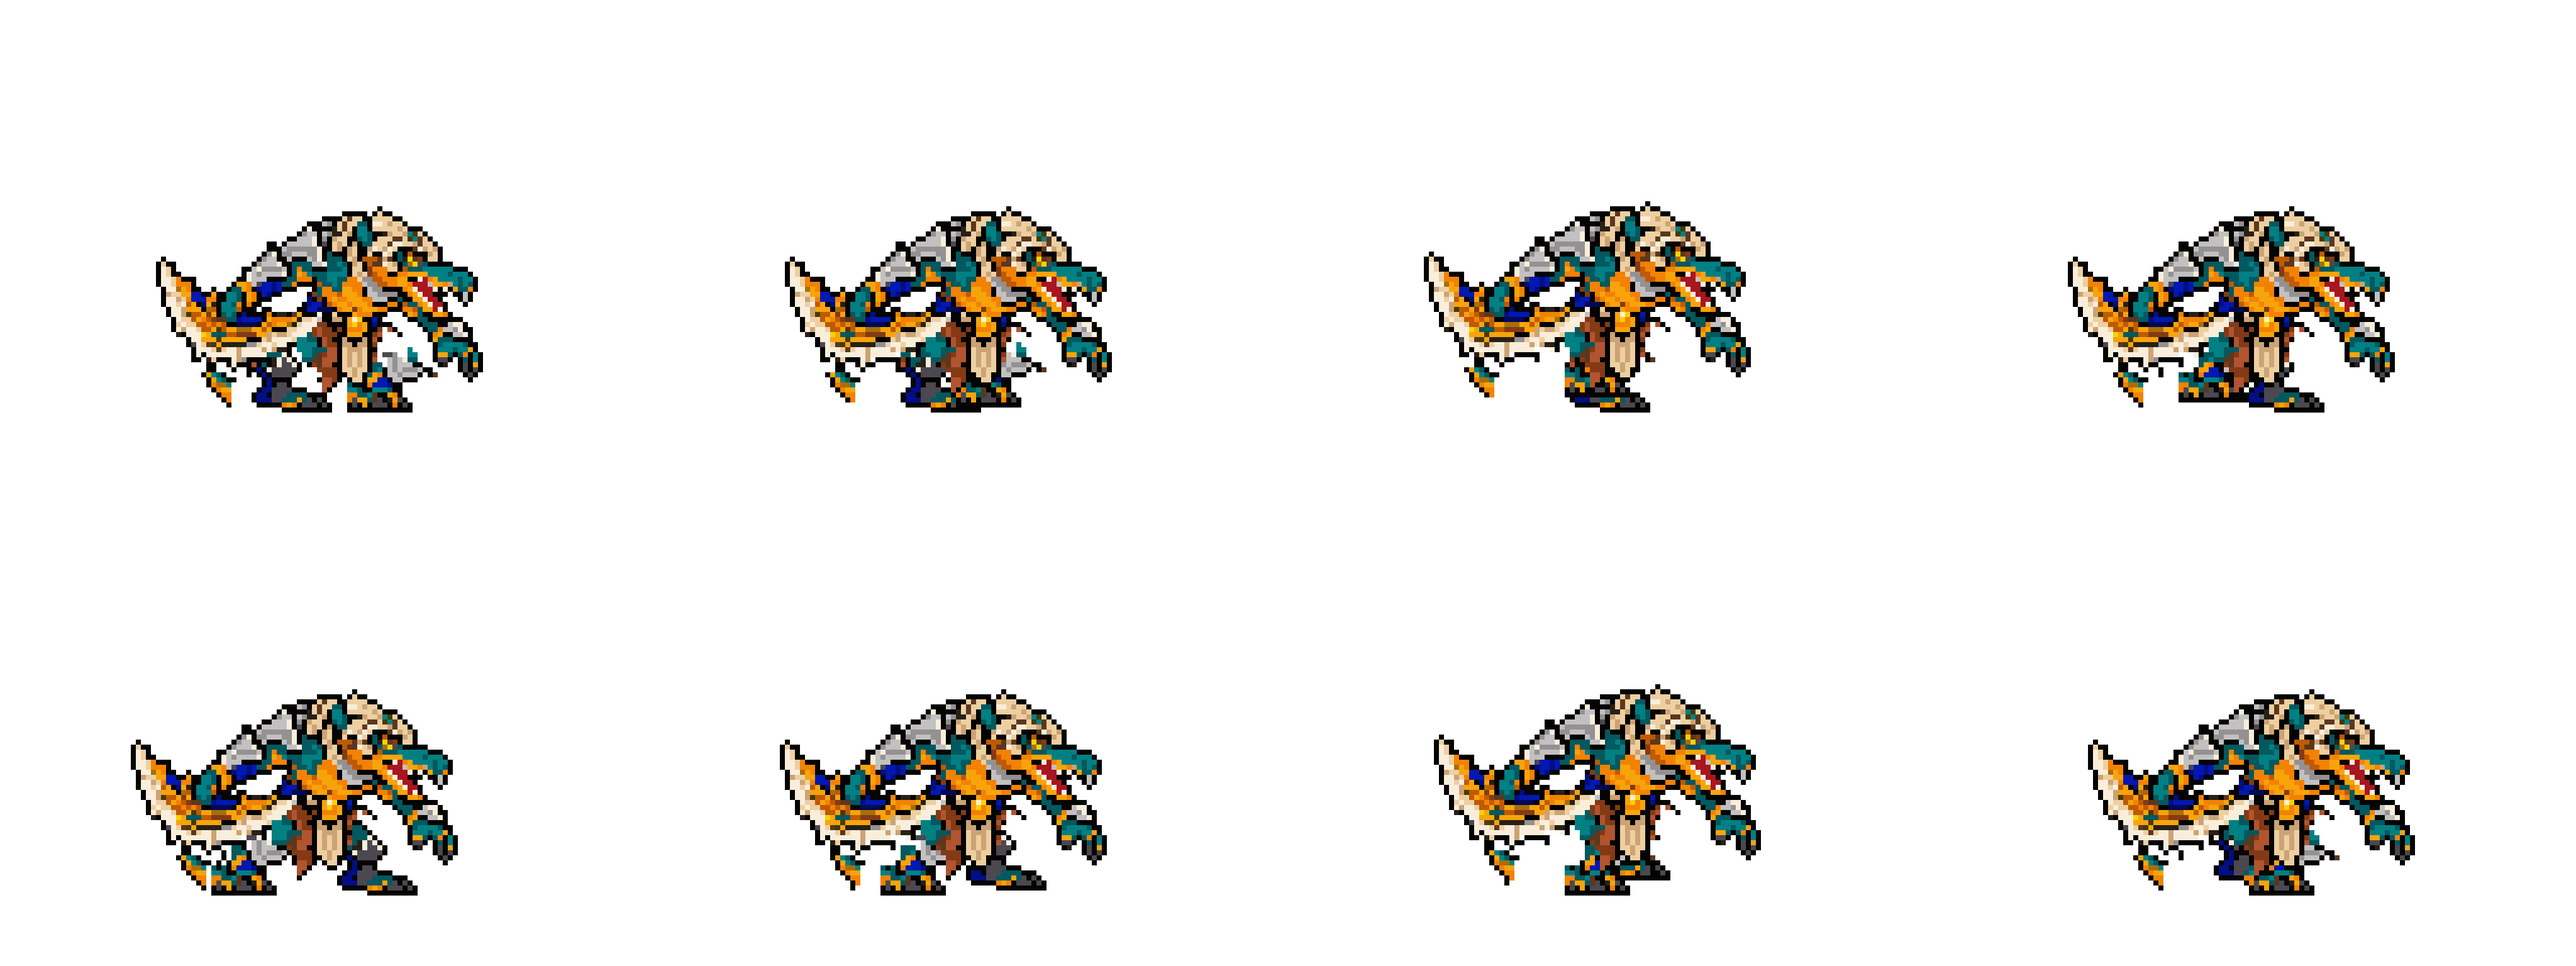
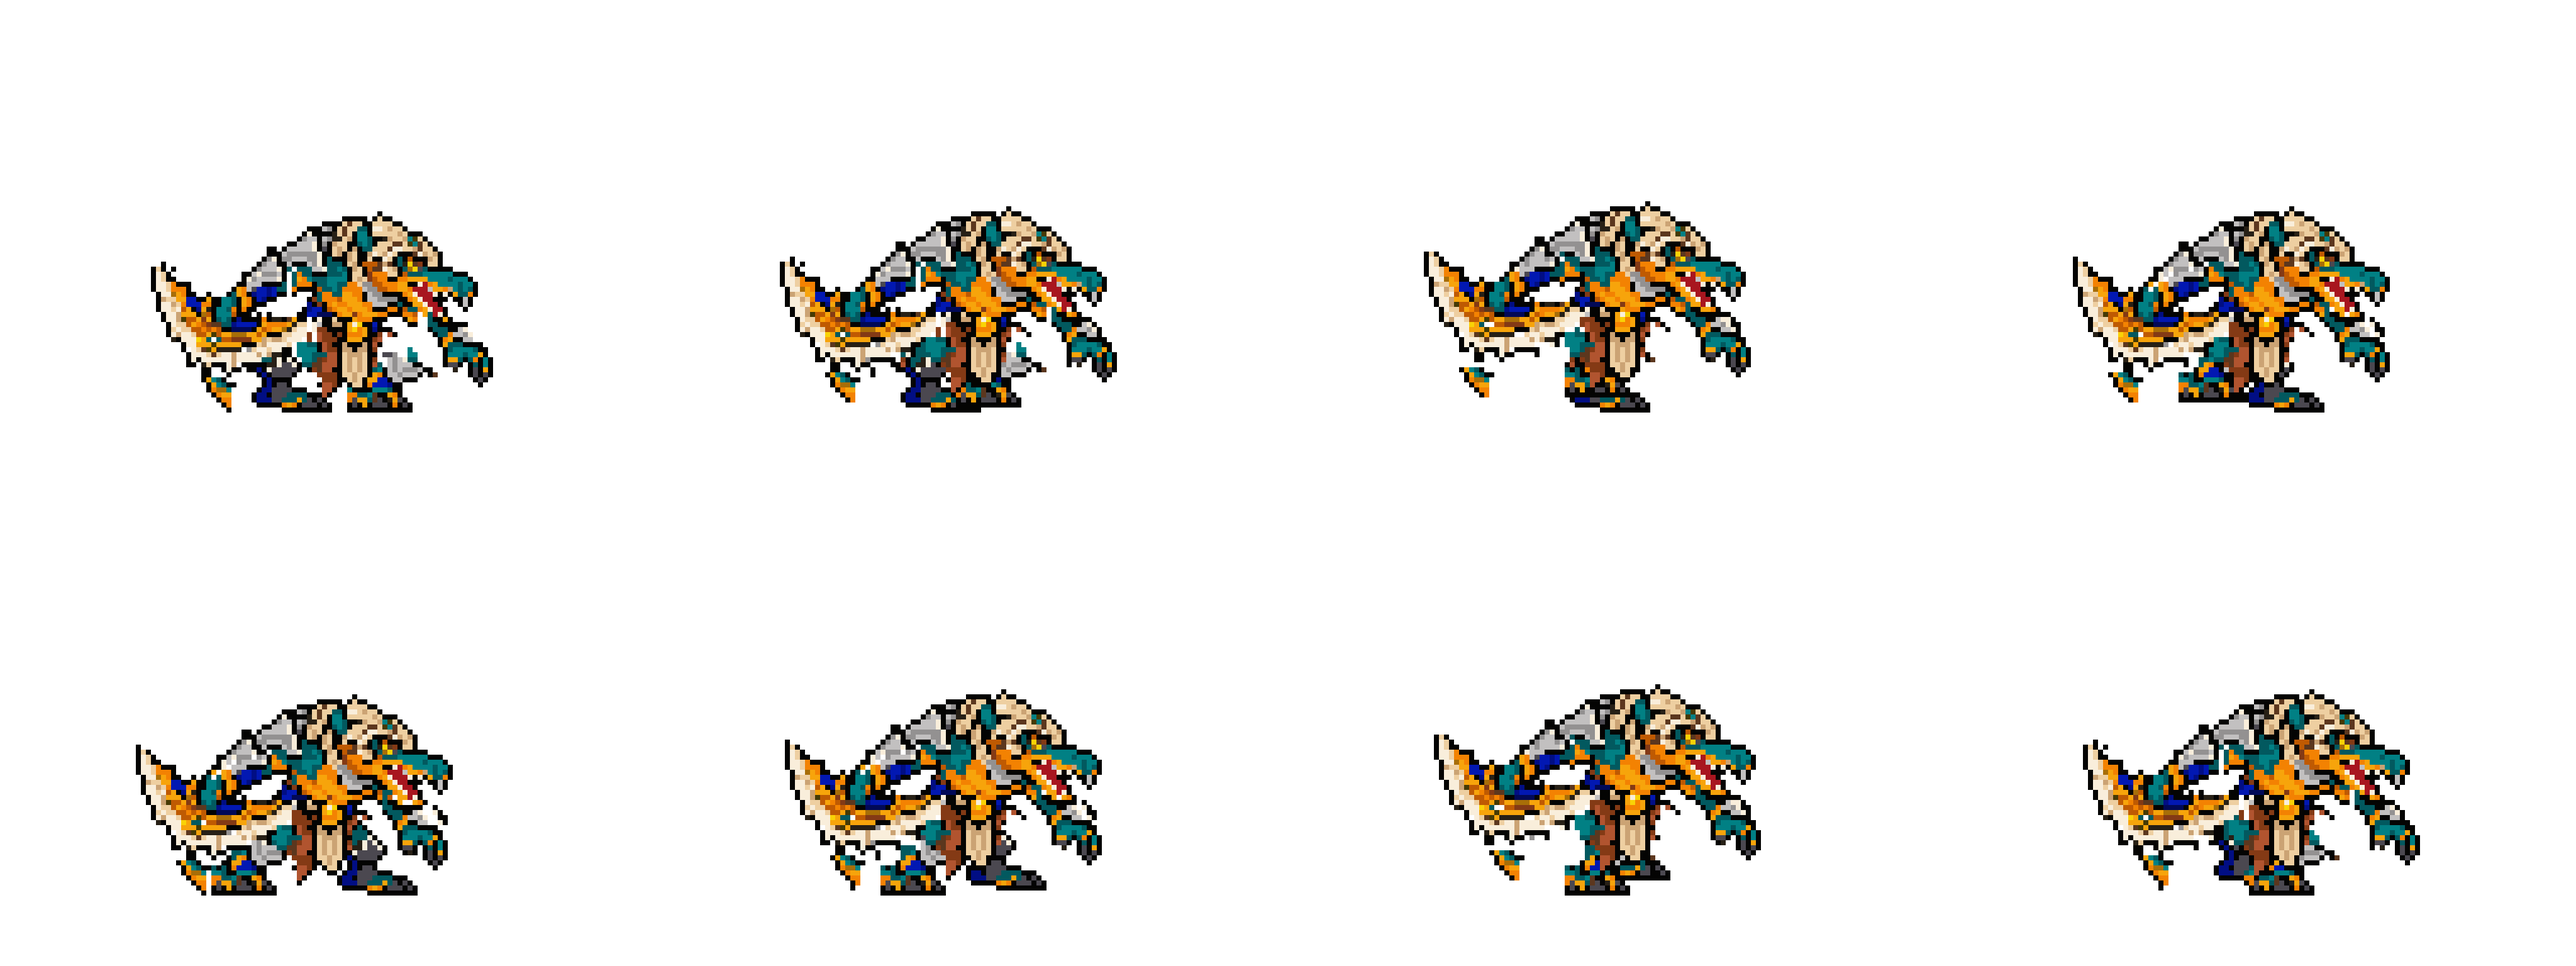
Renekton run less stiff (「鳄鱼走路有点僵硬啊」): recomposed from the rig parts, Codex's leg moves kept; the upper body sinks a row on each landing, the arms swing against the legs, the tail sways

diff --git a/tools/art/fix_renekton_strips.py b/tools/art/fix_renekton_strips.py
@@ -16,6 +16,12 @@ blade, far arm, both legs, tail; whole-part moves and nearest-neighbour turns). 
      turned the tail with the body, so it stuck straight down under the back leg. Its squares (the rig's own tail
      part, placed as the rig places the frame) are taken out and turned TAIL_TURN degrees about its root (the tail
      square nearest the back leg) to lie along the ground beside the feet, drawn behind the body.
+  3. 「鳄鱼走路有点僵硬啊」: Codex's run moved only the two legs (whole pieces crossing over) and lifted the whole
+     frame a row on two of the eight; the body, both arms, the blade and the tail stood still. The run is recomposed
+     from the same rig parts with Codex's leg moves kept and RUN's additions: the upper body (core, head, arms, tail)
+     sinks a row on each landing (frames 1 and 5) with the feet on the ground in every frame, the far arm swings
+     forward and back against the legs (whole, up to 2 columns), the blade arm the other way (1 column, a row up while
+     the legs pass), and the tail sways 2 columns each way.
 """
 import argparse
 import json
@@ -39,6 +45,14 @@ CORPSE = range(3, 8)  # dead frames (0-based) lying at 90 degrees
 # the rig's death (codex_strips/rig/rebuild.py config 'dead'): body turn, whole-body x offset, near arm
 D_ROT = [0, 0, 45, 90, 90, 90, 90, 90]
 D_DX = [-1, -3, -3, -3, -3, -3, -3, -3]
+# the rig's run (rebuild.py config 'run'): each leg piece moved whole, crossing over
+R_NEAR = [(23, 0), (19, -1), (13, -2), (7, -2), (1, 0), (5, 0), (11, 1), (17, 0)]       # the back (near) leg
+R_FAR = [(-25, 0), (-21, 0), (-15, 1), (-9, 0), (-3, 0), (-7, -1), (-13, -2), (-19, -2)]  # the front leg, a shade darker
+# fix 3: the upper body's sink, the far arm's and the blade arm's swing (dx, dy), the tail's sway
+RUN = {"body_dy": [1, 0, 0, 0, 1, 0, 0, 0],
+       "far": [(2, 0), (1, 0), (0, 0), (-1, 0), (-2, 0), (-1, 0), (0, 0), (1, 0)],
+       "near": [(-1, 0), (-1, 0), (0, -1), (1, 0), (1, 0), (1, 0), (0, -1), (-1, 0)],
+       "tail": [0, -1, -2, -1, 0, 1, 2, 1]}
 
 
 def lp(path):
@@ -147,6 +161,39 @@ def lay_tail(c, parts, i, pivot):
     return np.array(out), int(shown.sum())
 
 
+# ---------------------------------------------------------------------------------------------- fix 3: the run
+def darken(im):
+    """The rig's far-leg shade (rebuild.py darken)."""
+    a = np.array(im)
+    mp = {(1, 128, 132): (2, 89, 95), (2, 89, 95): (2, 89, 95), (194, 192, 192): (147, 145, 145),
+          (147, 145, 145): (75, 72, 80), (2, 24, 178): (1, 14, 132)}
+    for old, new in mp.items():
+        m = (a[:, :, :3] == old).all(2) & (a[:, :, 3] > 0)
+        a[m, :3] = new
+    return Image.fromarray(a)
+
+
+def run_frame(parts, i, pivot):
+    by = RUN["body_dy"][i]
+    im = Image.new("RGBA", (128, 128))
+    im.alpha_composite(moved(parts["tail"], RUN["tail"][i], by))
+    im.alpha_composite(moved(darken(parts["frontleg"]), *R_FAR[i]))
+    im.alpha_composite(moved(parts["rearleg"], *R_NEAR[i]))
+    im.alpha_composite(moved(parts["core"], 0, by))
+    fx, fy = RUN["far"][i]
+    im.alpha_composite(moved(parts["far"], fx, by + fy))
+    nx, ny = RUN["near"][i]
+    im.alpha_composite(moved(parts["near"], nx, by + ny))
+    im.alpha_composite(moved(parts["head"], 0, by))
+    tx, ty = pivot[0] - 64, pivot[1] - 88
+    bx = im.getbbox()
+    if bx[3] + ty > FEET + 1:
+        ty -= bx[3] + ty - FEET - 1
+    f = Image.new("RGBA", (128, 96))
+    f.alpha_composite(im, (tx, ty))
+    return np.array(f)
+
+
 def layout(n):
     return {1: 1, 2: 2, 3: 3, 4: 4, 5: 3, 6: 3}.get(n, 4)
 
@@ -167,6 +214,8 @@ def main():
         for i in range(len(frs)):
             y0, x0 = (i // cols) * ch, (i % cols) * cw
             c = small[y0:y0 + ch, x0:x0 + cw]
+            if tag == "run":
+                c = run_frame(parts, i, frs[i]["pivot"])
             if tag == "dead" and i in CORPSE:
                 c, moved_n = lay_tail(c, parts, i, frs[i]["pivot"])
                 print(tag, i + 1, "tail turned", TAIL_TURN, "degrees,", moved_n, "squares")
